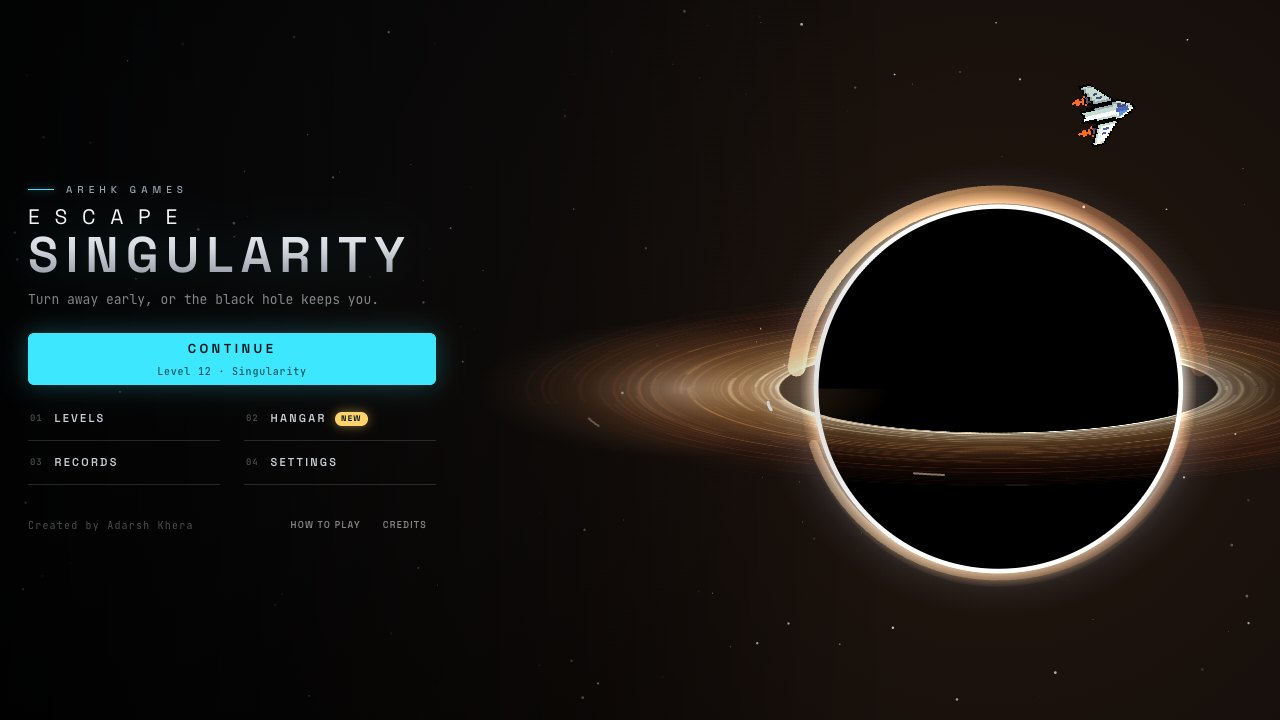
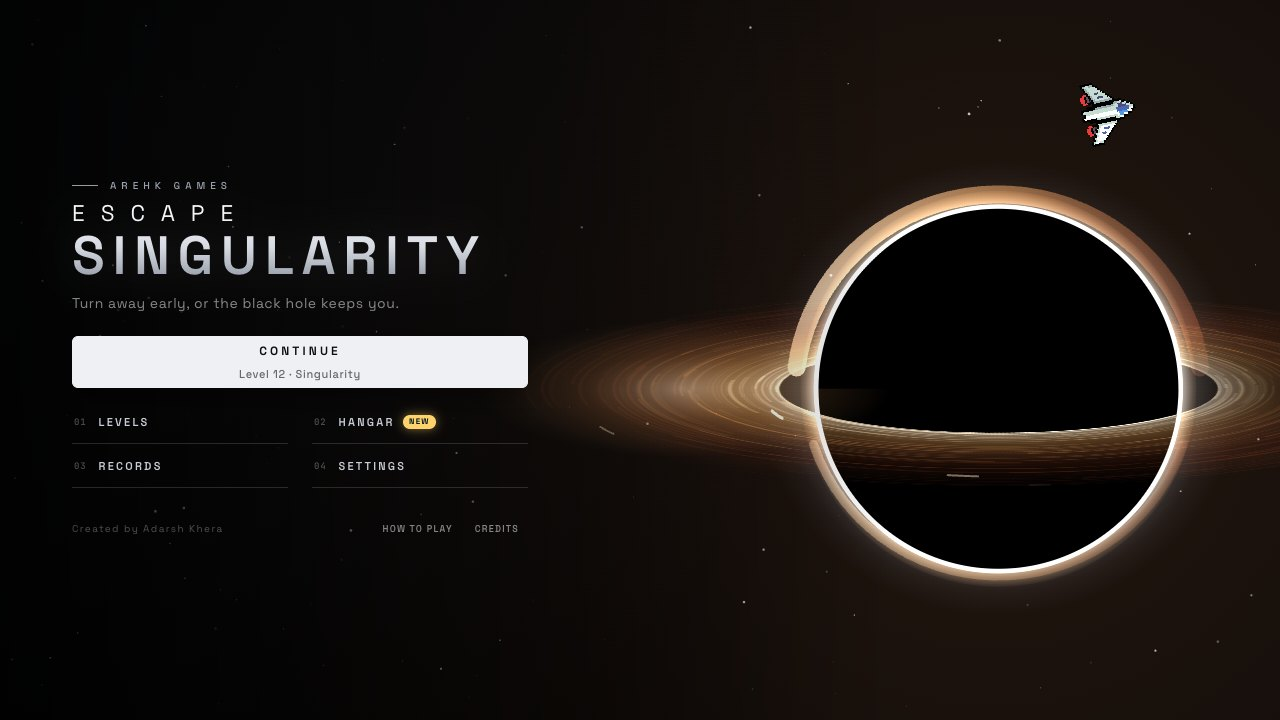
feat: drop the cyan accent for white and give the home menu room
Accent is now white across menus, sheets, overlays and touch controls. The
primary button is a soft white pill, the whole UI uses Space Grotesk, level
cards use the same frosted surface, and the home column has a wider left
margin. Screenshots and case study text updated.

diff --git a/src/ui/ui.css b/src/ui/ui.css
@@ -28,7 +28,7 @@
   -webkit-background-clip: text;
   background-clip: text;
   -webkit-text-fill-color: transparent;
-  filter: drop-shadow(0 0 22px rgba(61, 232, 255, 0.14));
+  filter: drop-shadow(0 0 22px rgba(255, 255, 255, 0.1));
 }
 
 .es-heading {
@@ -108,25 +108,28 @@
 
 .es-btn--primary {
   min-height: 52px;
-  font-size: 13px;
+  font-size: 12px;
+  font-weight: 600;
   letter-spacing: 0.26em;
-  color: #031418;
-  background: var(--es-accent);
-  border-color: var(--es-accent);
-  box-shadow: 0 0 24px rgba(61, 232, 255, 0.28);
+  color: #0c0d10;
+  background: #eef0f3;
+  border-color: #eef0f3;
+  box-shadow: 0 10px 30px rgba(0, 0, 0, 0.35);
 }
 
 @media (hover: hover) {
   .es-btn--primary:hover {
-    background: #7af0ff;
-    color: #031418;
-    box-shadow: 0 0 34px rgba(61, 232, 255, 0.42);
+    background: #ffffff;
+    border-color: #ffffff;
+    color: #0c0d10;
+    box-shadow: 0 12px 34px rgba(0, 0, 0, 0.45);
   }
 }
 
 .es-btn--primary:active {
-  background: #19cfe6;
-  box-shadow: 0 0 30px rgba(61, 232, 255, 0.5);
+  background: #d5d8de;
+  border-color: #d5d8de;
+  box-shadow: 0 6px 18px rgba(0, 0, 0, 0.4);
 }
 
 .es-btn--danger:active {
@@ -173,14 +176,14 @@
 }
 
 .es-btn--primary .es-btn__sub {
-  color: rgba(3, 20, 24, 0.7);
+  color: rgba(12, 13, 16, 0.6);
 }
 
 .es-btn__sub {
-  font-family: var(--es-font-mono);
+  font-family: var(--es-font-display);
   font-weight: 500;
-  font-size: 10px;
-  letter-spacing: 0.08em;
+  font-size: 11px;
+  letter-spacing: 0.06em;
   text-transform: none;
   color: var(--es-muted);
 }
@@ -249,7 +252,7 @@
 
 .es-overlay__title--win {
   color: var(--es-accent);
-  text-shadow: 0 0 26px rgba(61, 232, 255, 0.5);
+  text-shadow: 0 0 26px rgba(255, 255, 255, 0.35);
 }
 
 .es-actions {
@@ -337,7 +340,7 @@
 }
 
 .es-toggle[aria-checked='true'] {
-  background: rgba(61, 232, 255, 0.18);
+  background: rgba(255, 255, 255, 0.13);
   border-color: var(--es-accent);
 }
 
@@ -471,7 +474,7 @@
   font-size: 11px;
   text-align: center;
   color: var(--es-ink-soft);
-  background: rgba(61, 232, 255, 0.06);
+  background: rgba(255, 255, 255, 0.04);
   border: 1px solid rgba(222, 227, 235, 0.25);
   border-radius: 4px;
 }
@@ -554,7 +557,7 @@
 .es-app :focus-visible {
   outline: 2px solid var(--es-accent);
   outline-offset: 2px;
-  box-shadow: 0 0 0 4px rgba(61, 232, 255, 0.18);
+  box-shadow: 0 0 0 4px rgba(255, 255, 255, 0.13);
 }
 
 .es-app :focus:not(:focus-visible) {

diff --git a/src/ui/menu/menu.css b/src/ui/menu/menu.css
@@ -35,8 +35,8 @@
   flex-direction: column;
   justify-content: center;
   gap: clamp(10px, 3.4vh, 26px);
-  width: min(460px, 58vw);
-  padding: max(16px, var(--es-safe-top)) 24px max(12px, var(--es-safe-bottom)) max(28px, calc(var(--es-safe-left) + 16px));
+  width: min(560px, 62vw);
+  padding: max(16px, var(--es-safe-top)) 32px max(12px, var(--es-safe-bottom)) max(clamp(28px, 6vw, 72px), calc(var(--es-safe-left) + 24px));
 }
 
 .es-home__brand {
@@ -51,7 +51,7 @@
   display: flex;
   flex-direction: column;
   gap: 2px;
-  font-size: clamp(24px, min(9.5vh, calc((min(460px, 58vw) - 40px) / 8.4)), 54px);
+  font-size: clamp(24px, min(9.5vh, calc((min(560px, 62vw) - 104px) / 8.4)), 54px);
 }
 
 /* the first word is a quiet lead-in; the second carries the weight */
@@ -71,12 +71,13 @@
   content: '';
   width: 26px;
   height: 1px;
-  background: var(--es-accent);
-  box-shadow: 0 0 8px rgba(61, 232, 255, 0.7);
+  background: rgba(255, 255, 255, 0.6);
 }
 
 .es-home__tagline {
-  font-size: clamp(10px, 2.6vh, 13px);
+  font-family: var(--es-font-display);
+  font-size: clamp(11px, 2.8vh, 14px);
+  letter-spacing: 0.04em;
   color: var(--es-muted);
 }
 
@@ -175,8 +176,9 @@
   align-items: center;
   row-gap: 0;
   gap: var(--es-space-3);
+  font-family: var(--es-font-display);
   font-size: 10px;
-  letter-spacing: 0.12em;
+  letter-spacing: 0.14em;
   color: var(--es-faint);
 }
 
@@ -261,9 +263,11 @@
   padding: var(--es-space-3);
   text-align: left;
   color: var(--es-ink);
-  background: linear-gradient(160deg, rgba(20, 30, 48, 0.85), rgba(11, 12, 15, 0.85));
+  background: rgba(255, 255, 255, 0.05);
   border: 1px solid var(--es-line);
-  border-radius: 8px;
+  border-radius: 10px;
+  backdrop-filter: blur(10px);
+  -webkit-backdrop-filter: blur(10px);
   cursor: pointer;
   transition:
     transform 120ms ease,
@@ -286,8 +290,8 @@
 }
 
 .es-level--current {
-  border-color: rgba(61, 232, 255, 0.6);
-  box-shadow: 0 0 18px rgba(61, 232, 255, 0.15);
+  border-color: rgba(255, 255, 255, 0.42);
+  box-shadow: 0 0 18px rgba(255, 255, 255, 0.1);
 }
 
 .es-level:disabled {

diff --git a/src/ui/touch/touch.css b/src/ui/touch/touch.css
@@ -61,8 +61,8 @@
 }
 
 .es-steer[data-active='true'] .es-steer__track {
-  background: rgba(61, 232, 255, 0.1);
-  border-color: rgba(61, 232, 255, 0.45);
+  background: rgba(255, 255, 255, 0.07);
+  border-color: rgba(255, 255, 255, 0.32);
 }
 
 .es-steer__track::before {
@@ -99,7 +99,7 @@
 
 .es-steer__chevron[data-active='true'] {
   stroke: var(--es-accent);
-  filter: drop-shadow(0 0 6px rgba(61, 232, 255, 0.7));
+  filter: drop-shadow(0 0 6px rgba(255, 255, 255, 0.49));
 }
 
 .es-steer__knob {
@@ -117,7 +117,7 @@
 
 .es-steer[data-active='true'] .es-steer__knob {
   border-color: var(--es-accent);
-  box-shadow: 0 0 16px rgba(61, 232, 255, 0.45);
+  box-shadow: 0 0 16px rgba(255, 255, 255, 0.32);
 }
 
 /* ---------- Action buttons ---------- */
@@ -176,13 +176,13 @@
   width: clamp(80px, 25vh, 96px);
   height: clamp(80px, 25vh, 96px);
   color: var(--es-accent);
-  border-color: rgba(61, 232, 255, 0.45);
+  border-color: rgba(255, 255, 255, 0.32);
 }
 
 .es-tbtn--thrust[data-active='true'] {
-  background: rgba(61, 232, 255, 0.22);
+  background: rgba(255, 255, 255, 0.15);
   border-color: var(--es-accent);
-  box-shadow: 0 0 26px rgba(61, 232, 255, 0.4);
+  box-shadow: 0 0 26px rgba(255, 255, 255, 0.28);
 }
 
 .es-tbtn--brake {

diff --git a/src/ui/hangar.css b/src/ui/hangar.css
@@ -32,7 +32,7 @@
   aspect-ratio: 1;
   transform: translateX(-50%);
   border-radius: 50%;
-  background: radial-gradient(circle, rgba(61, 232, 255, 0.16) 0%, rgba(61, 232, 255, 0) 68%);
+  background: radial-gradient(circle, rgba(255, 255, 255, 0.11) 0%, rgba(255, 255, 255, 0) 68%);
   pointer-events: none;
 }
 
@@ -45,7 +45,7 @@
   width: clamp(84px, 30vh, 150px);
   height: clamp(84px, 30vh, 150px);
   image-rendering: pixelated;
-  filter: drop-shadow(0 0 18px rgba(61, 232, 255, 0.25));
+  filter: drop-shadow(0 0 18px rgba(255, 255, 255, 0.17));
   animation:
     es-ship-in 320ms cubic-bezier(0.2, 0.9, 0.3, 1.15),
     es-hover 3s 320ms ease-in-out infinite;
@@ -148,8 +148,8 @@
 
 .es-hangar__thumb[aria-checked='true'] {
   border-color: var(--es-accent);
-  background: rgba(61, 232, 255, 0.12);
-  box-shadow: 0 0 14px rgba(61, 232, 255, 0.2);
+  background: rgba(255, 255, 255, 0.08);
+  box-shadow: 0 0 14px rgba(255, 255, 255, 0.14);
 }
 
 .es-hangar__thumb--locked img {
@@ -210,7 +210,7 @@
 
 .es-statbar__seg--on {
   background: var(--es-accent);
-  box-shadow: 0 0 6px rgba(61, 232, 255, 0.45);
+  box-shadow: 0 0 6px rgba(255, 255, 255, 0.32);
 }
 
 @keyframes es-hover {

diff --git a/src/ui/overlays/overlays.css b/src/ui/overlays/overlays.css
@@ -48,8 +48,8 @@
 
 .es-chip[aria-pressed='true'] {
   color: var(--es-accent);
-  border-color: rgba(61, 232, 255, 0.5);
-  background: rgba(61, 232, 255, 0.08);
+  border-color: rgba(255, 255, 255, 0.35);
+  background: rgba(255, 255, 255, 0.06);
 }
 
 .es-chip__dot {
@@ -122,8 +122,8 @@
   justify-content: center;
   gap: var(--es-space-3);
   padding: var(--es-space-3);
-  background: rgba(61, 232, 255, 0.04);
-  border: 1px solid rgba(61, 232, 255, 0.22);
+  background: rgba(255, 255, 255, 0.03);
+  border: 1px solid rgba(255, 255, 255, 0.15);
   border-radius: 8px;
   animation: es-rise-in 380ms 1100ms ease-out both;
 }
@@ -158,7 +158,7 @@
   width: 100%;
   height: 100%;
   image-rendering: pixelated;
-  filter: drop-shadow(0 0 12px rgba(61, 232, 255, 0.45));
+  filter: drop-shadow(0 0 12px rgba(255, 255, 255, 0.32));
   animation: es-unlock-reveal 900ms 1250ms cubic-bezier(0.2, 1.2, 0.4, 1) both;
 }
 
@@ -256,7 +256,7 @@
   }
   100% {
     transform: scale(1) rotate(0);
-    filter: brightness(1) drop-shadow(0 0 12px rgba(61, 232, 255, 0.45));
+    filter: brightness(1) drop-shadow(0 0 12px rgba(255, 255, 255, 0.32));
   }
 }
 

diff --git a/src/index.css b/src/index.css
@@ -6,9 +6,9 @@
   --es-ink-soft: #c9ced6;
   --es-muted: rgba(231, 233, 238, 0.56);
   --es-faint: rgba(231, 233, 238, 0.32);
-  --es-accent: #3de8ff;
-  --es-accent-soft: rgba(61, 232, 255, 0.1);
-  --es-accent-glow: rgba(61, 232, 255, 0.22);
+  --es-accent: #ffffff;
+  --es-accent-soft: rgba(255, 255, 255, 0.07);
+  --es-accent-glow: rgba(255, 255, 255, 0.15);
   --es-warm: #ffb37a;
   --es-danger: #ff6b6b;
   --es-gold: #ffd36b;
@@ -61,7 +61,7 @@ body {
   position: fixed;
   inset: 0;
   color: var(--es-ink);
-  font-family: var(--es-font-mono);
+  font-family: var(--es-font-display);
   -webkit-font-smoothing: antialiased;
   user-select: none;
   -webkit-user-select: none;

diff --git a/src/ui/rotate.css b/src/ui/rotate.css
@@ -16,11 +16,11 @@
 .es-rotate__phone {
   width: 96px;
   height: 96px;
-  fill: rgba(61, 232, 255, 0.06);
+  fill: rgba(255, 255, 255, 0.04);
   stroke: var(--es-accent);
   stroke-width: 2.2;
   stroke-linecap: round;
-  filter: drop-shadow(0 0 12px rgba(61, 232, 255, 0.35));
+  filter: drop-shadow(0 0 12px rgba(255, 255, 255, 0.24));
   animation: es-rotate-phone 2.4s cubic-bezier(0.6, 0, 0.3, 1) infinite;
 }
 

diff --git a/src/ui/intro.css b/src/ui/intro.css
@@ -96,7 +96,7 @@
   position: absolute;
   inset: 0 auto 0 0;
   background: var(--es-accent);
-  box-shadow: 0 0 10px rgba(61, 232, 255, 0.7);
+  box-shadow: 0 0 10px rgba(255, 255, 255, 0.49);
   transition: width 200ms linear;
 }
 

diff --git a/docs/CASE_STUDY.md b/docs/CASE_STUDY.md
@@ -95,7 +95,7 @@ The interface had three passes. The first was blue-black and retro. The second w
 
 The HUD is still only four things: the level number and name, your lives, a fuel bar, and a slim track showing how far you are from the next hole. Rockets and shield show up only while you hold them. The labels drawn on the game itself (planets, the black hole's name, pickups) use the same type, so nothing looks pasted on. Anything that needs more room (ships, records, settings) lives in menus instead of on screen during play.
 
-The menus have not had this pass yet. They still carry the older graphite and cyan look, and the same treatment is next.
+The menus then got the same pass: the cyan is gone, the main button is a soft white pill, the whole interface uses one typeface, and the home screen has more room on the left. The sub-screens (levels, hangar, records, settings) take the same colours but are not yet redrawn as glass. That is next.
 
 ![The home screen](screens/02-home.jpg)
 ![The hangar](screens/04-hangar.jpg)
